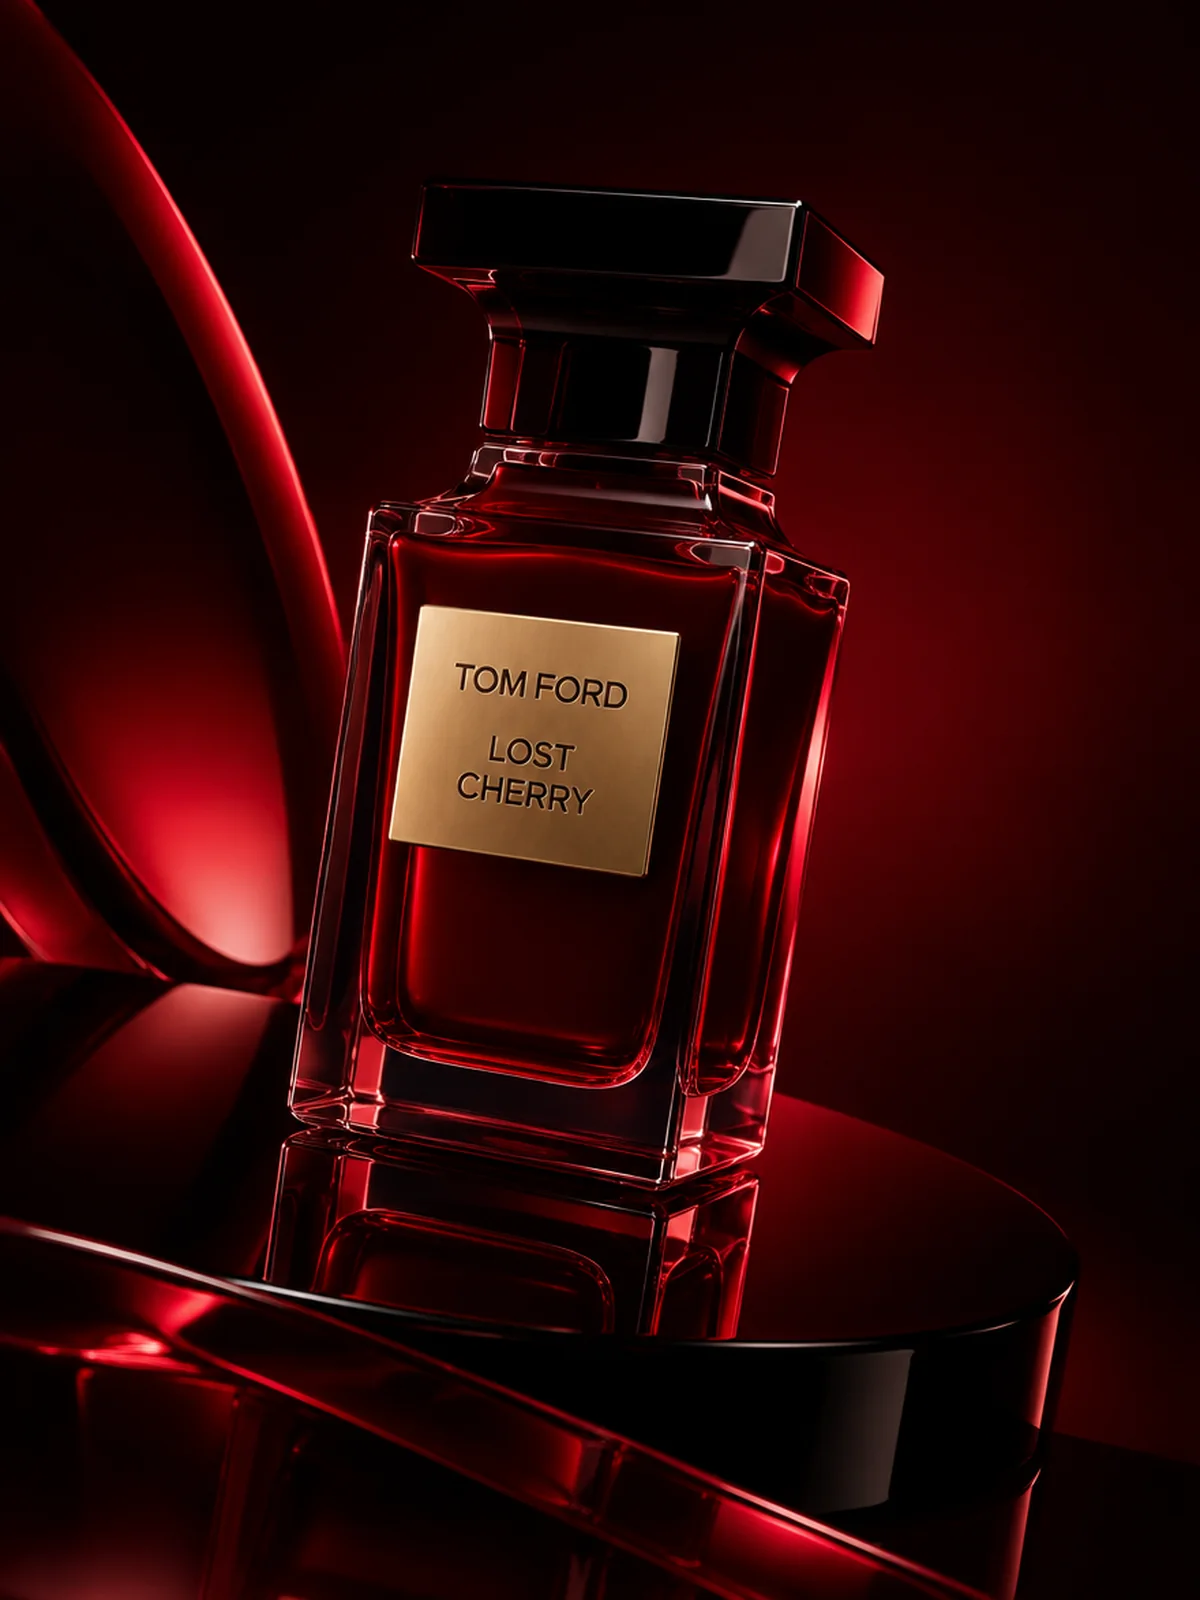
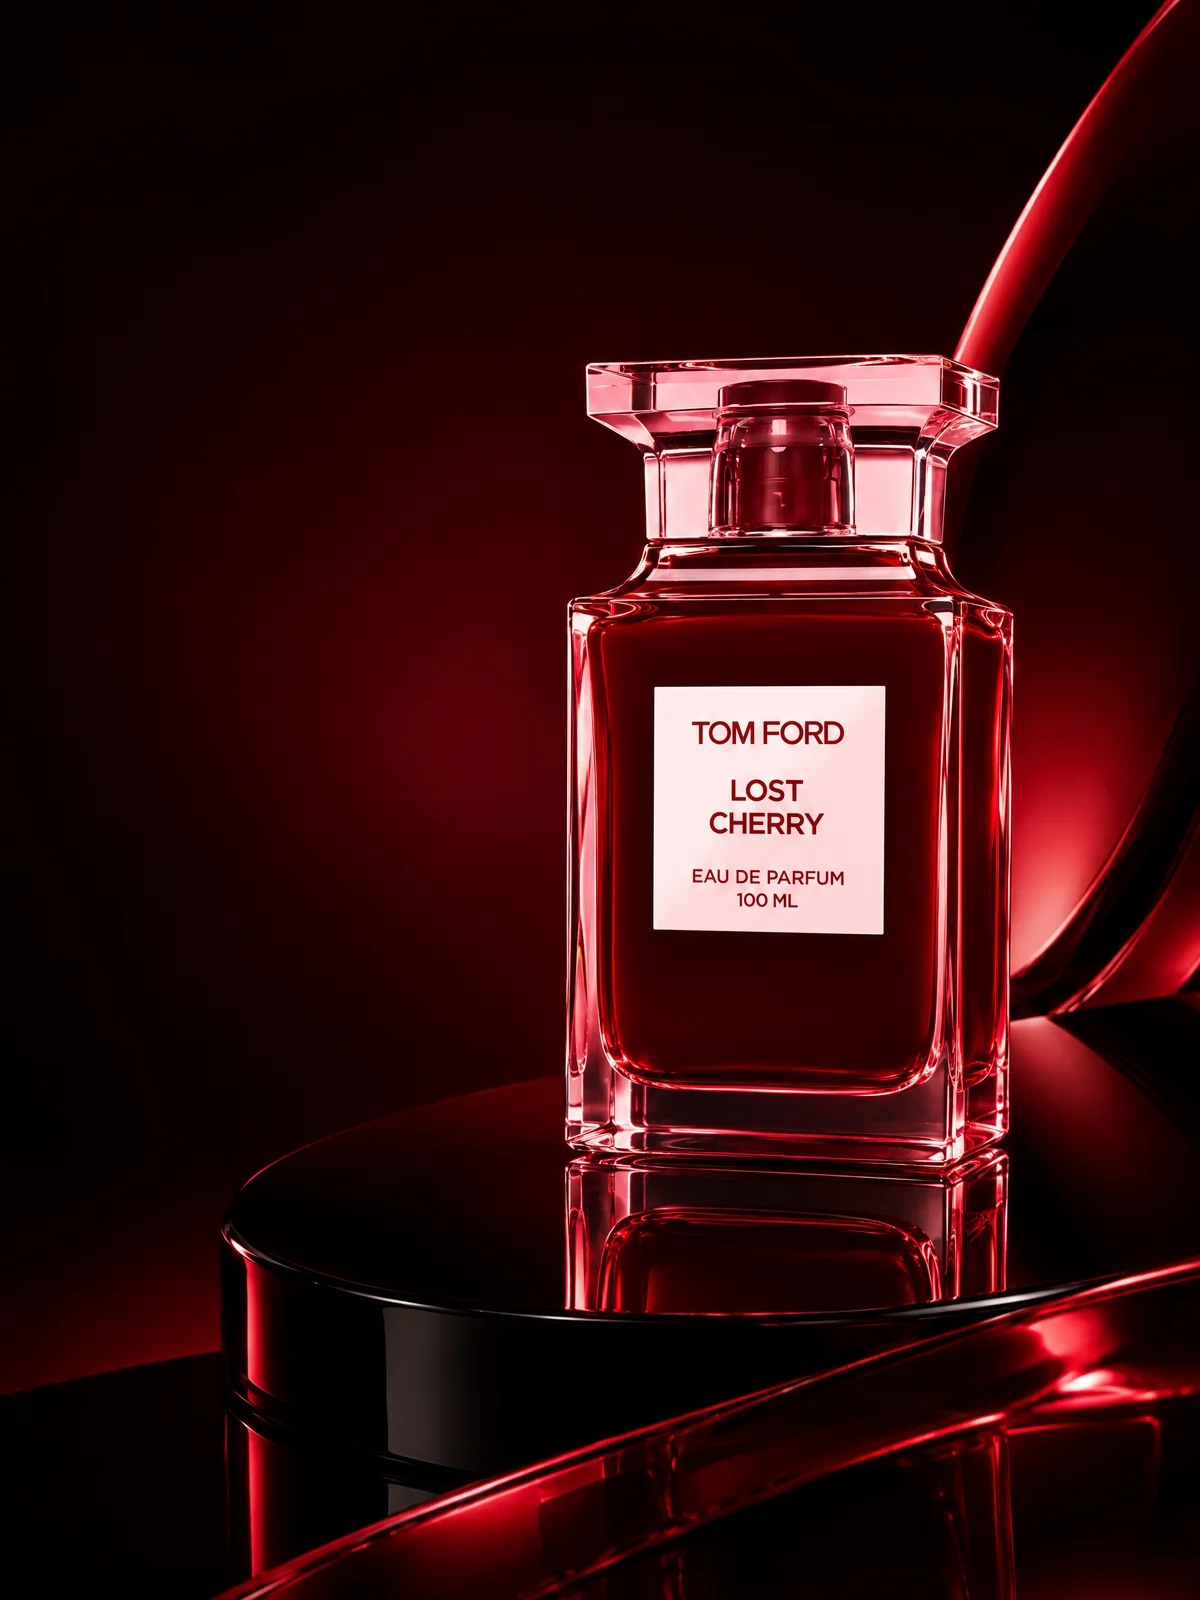
Carosello: foto Tom Ford Lost Cherry con il flacone vero e titolo orizzontale stile Prada
Claude-Session: https://claude.ai/code/session_01SLKbgx799Z4gJsMwQzxL4e

diff --git a/digital-business/portfolio/index.html b/digital-business/portfolio/index.html
@@ -318,10 +318,10 @@ footer{border-top:1px solid var(--line);padding-block:28px;color:var(--muted);fo
         <p class="t k" style="left:6%;bottom:4.5%;color:#ECEBE6;opacity:.8">Prada &mdash; concept, not affiliated</p></figure>
     </div>
     <div class="slide" data-c="#4A070B" role="group" aria-label="5 of 6">
-      <figure class="card"><img src="idea-5.webp" alt="A Tom Ford Lost Cherry bottle on black lacquer surrounded by curves of crimson light" loading="lazy" width="1200" height="1600">
-        <h2 class="t big caps vert" style="left:3.5%;top:4%;height:92%;font-size:10.6cqw;letter-spacing:.06em;text-align:center;color:#F6E3DF">Unforgettable</h2>
-        <p class="t k rule r" style="right:6%;top:6%;text-align:right;color:#F6E3DF"><i>Nº 05</i>The result</p>
-        <p class="t k" style="right:6%;bottom:4.5%;text-align:right;color:#F6E3DF;opacity:.8">Tom Ford &mdash; concept, not affiliated</p></figure>
+      <figure class="card"><img src="idea-5.webp" alt="A Tom Ford Lost Cherry bottle on a black lacquer disc surrounded by curves of crimson light" loading="lazy" width="1200" height="1600">
+        <p class="t k rule" style="left:6%;top:6%;color:#F6E3DF"><i>Nº 05</i>The result</p>
+        <h2 class="t big it" style="left:5%;top:10.5%;font-size:12.5cqw;color:#F6E3DF">Unforgettable.</h2>
+        <p class="t k" style="left:6%;bottom:4.5%;color:#F6E3DF;opacity:.8">Tom Ford &mdash; concept, not affiliated</p></figure>
     </div>
     <div class="slide final" data-c="#0A0A0A" role="group" aria-label="6 of 6">
       <div class="card"><div class="t"><h2>Your product, <em>next.</em></h2><p class="note">Anyone can generate an image.<br><b>We build the idea behind it.</b></p><a href="#contact" class="btn">Get a free sample</a></div></div>
